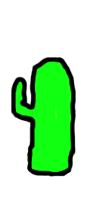
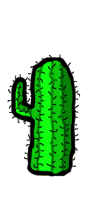
Improved cactus texture. Also added touch support.

Changed region(s): [[0.06, 0.27, 0.81, 0.87], [0.72, 0.78, 0.78, 0.84]]

diff --git a/pages/jaibelRunner/game.js b/pages/jaibelRunner/game.js
@@ -35,13 +35,24 @@ function unpause() {
     loop();
     scoreInterval = setInterval(() => ++score, 1000);
 }
+
+function touchStarted() {
+    key = " ";
+    keyPressed();
+}
+
+function touchEnded() {
+    key = " ";
+    keyReleased();
+}
+
 function keyPressed() {
     keysPressed.add(key);
     switch (key) {
         case "o":
             showHitbox = !showHitbox;
             break;
-        case " ":
+        case "w":    case "ArrowUp":    case " ":
             if (isDead) { reset(); }
             if (isPaused) { unpause(); }
             break;

diff --git a/pages/jaibelRunner/jaibel.js b/pages/jaibelRunner/jaibel.js
@@ -44,7 +44,7 @@ class Jaibel {
             }
         }
 
-        if (keysPressed.has(" ")) { this.jump(); }
+        if (keysPressed.has(" ") || keysPressed.has("w") || keysPressed.has("ArrowUp")) { this.jump(); }
 
         this.y += this.yVel;
         this.yVel += 0.9;
